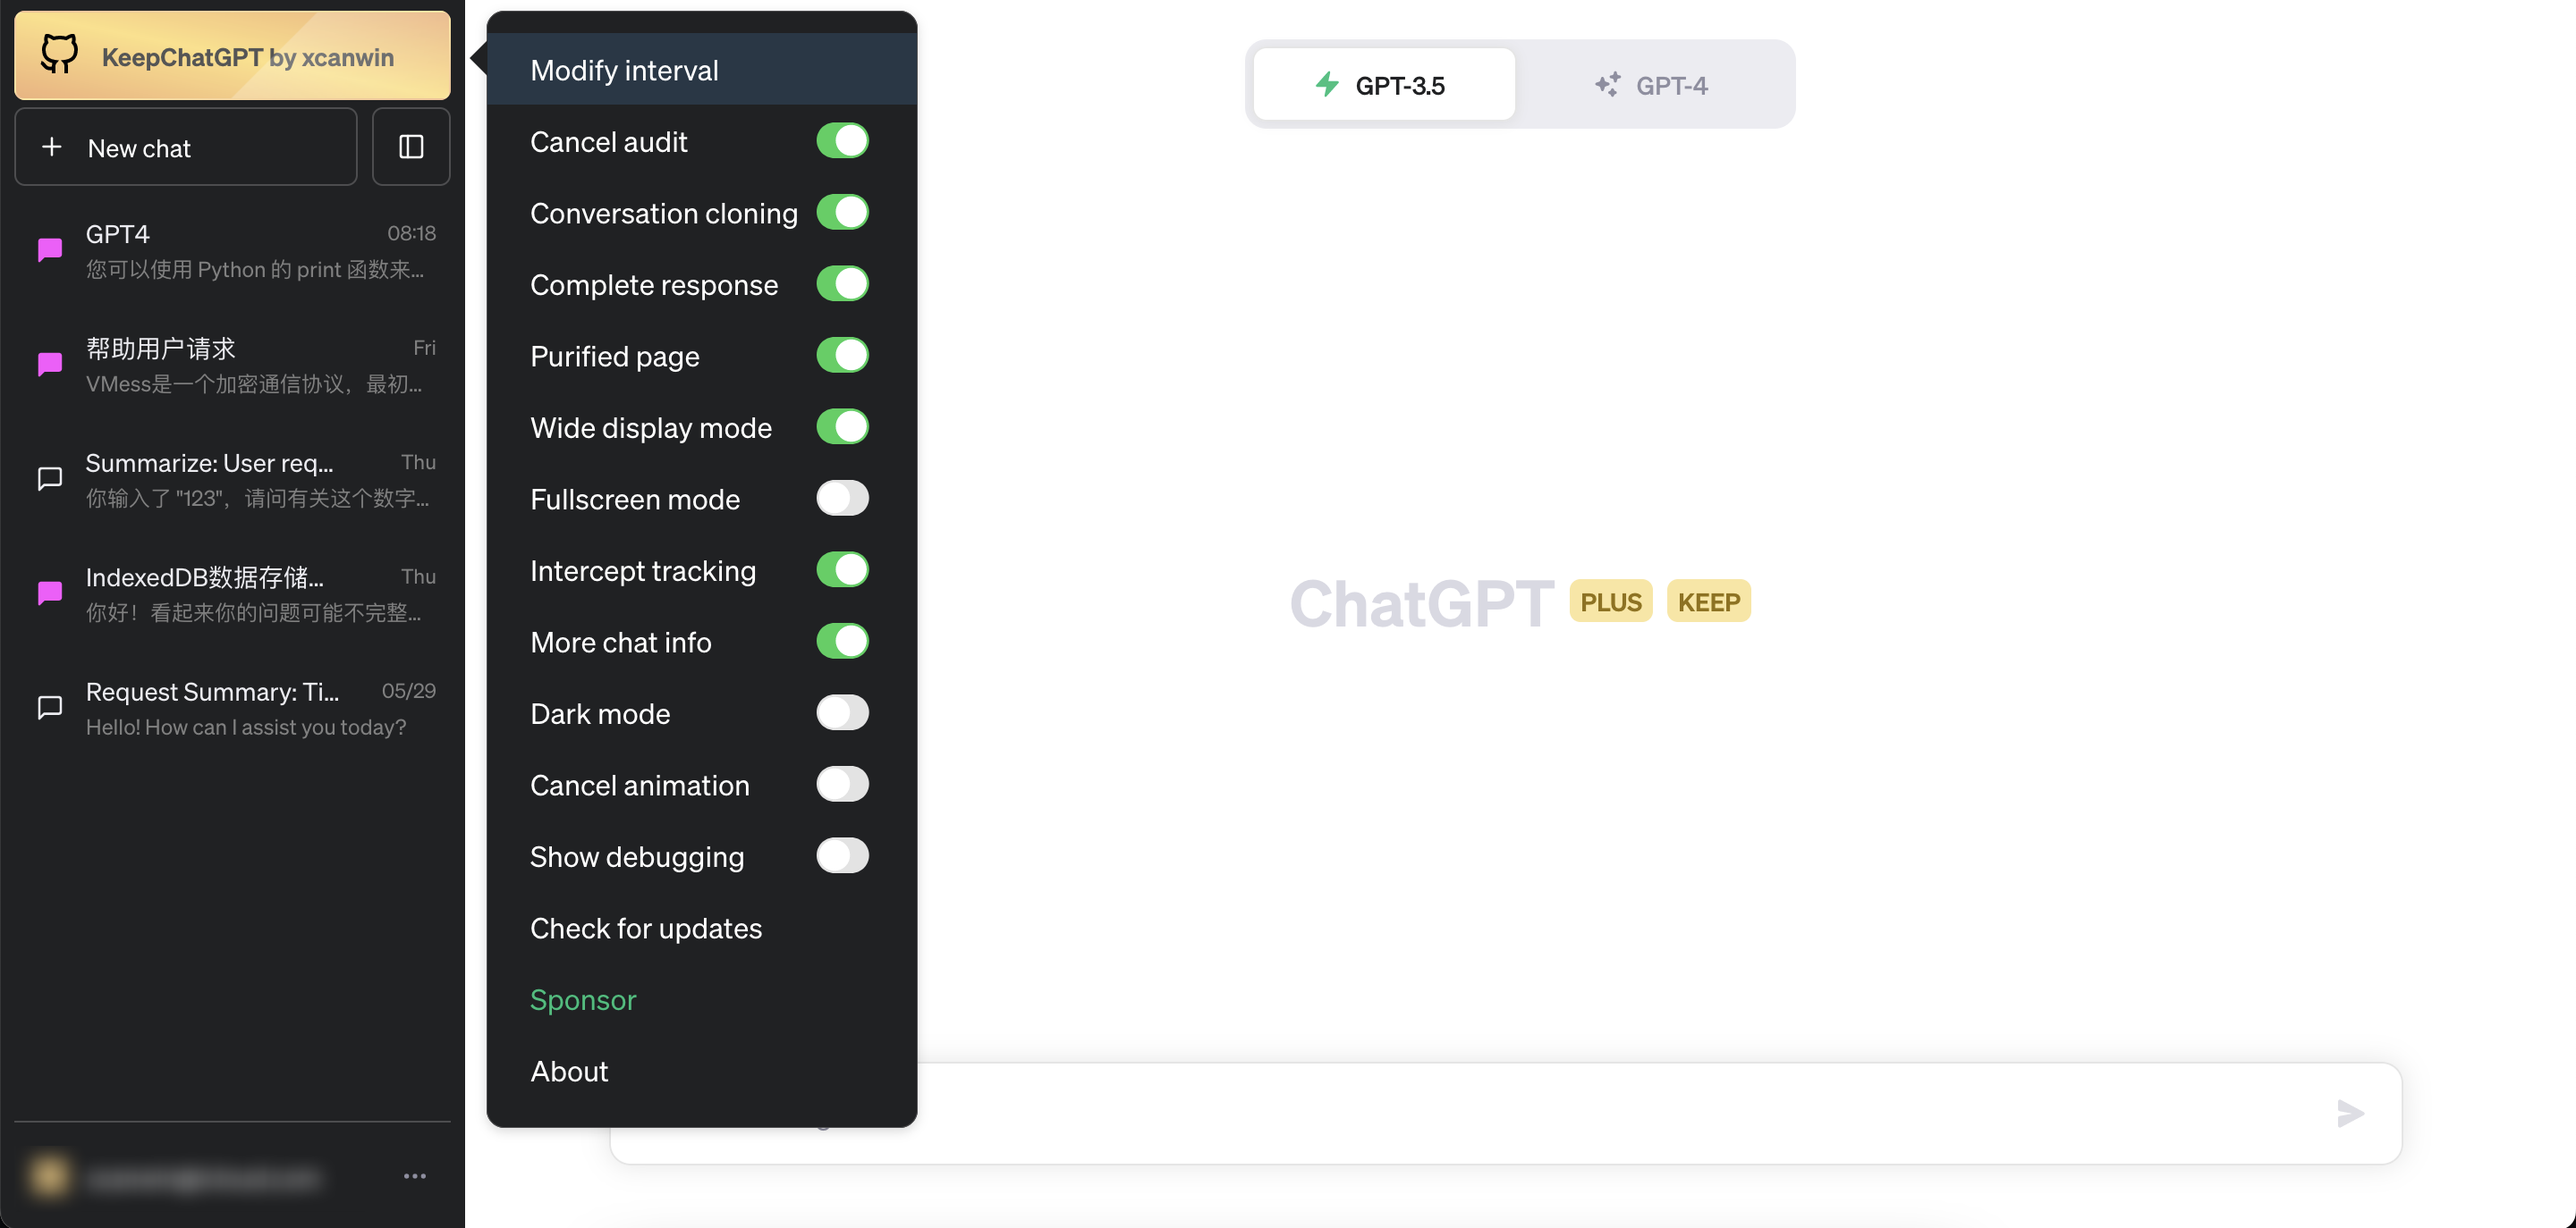
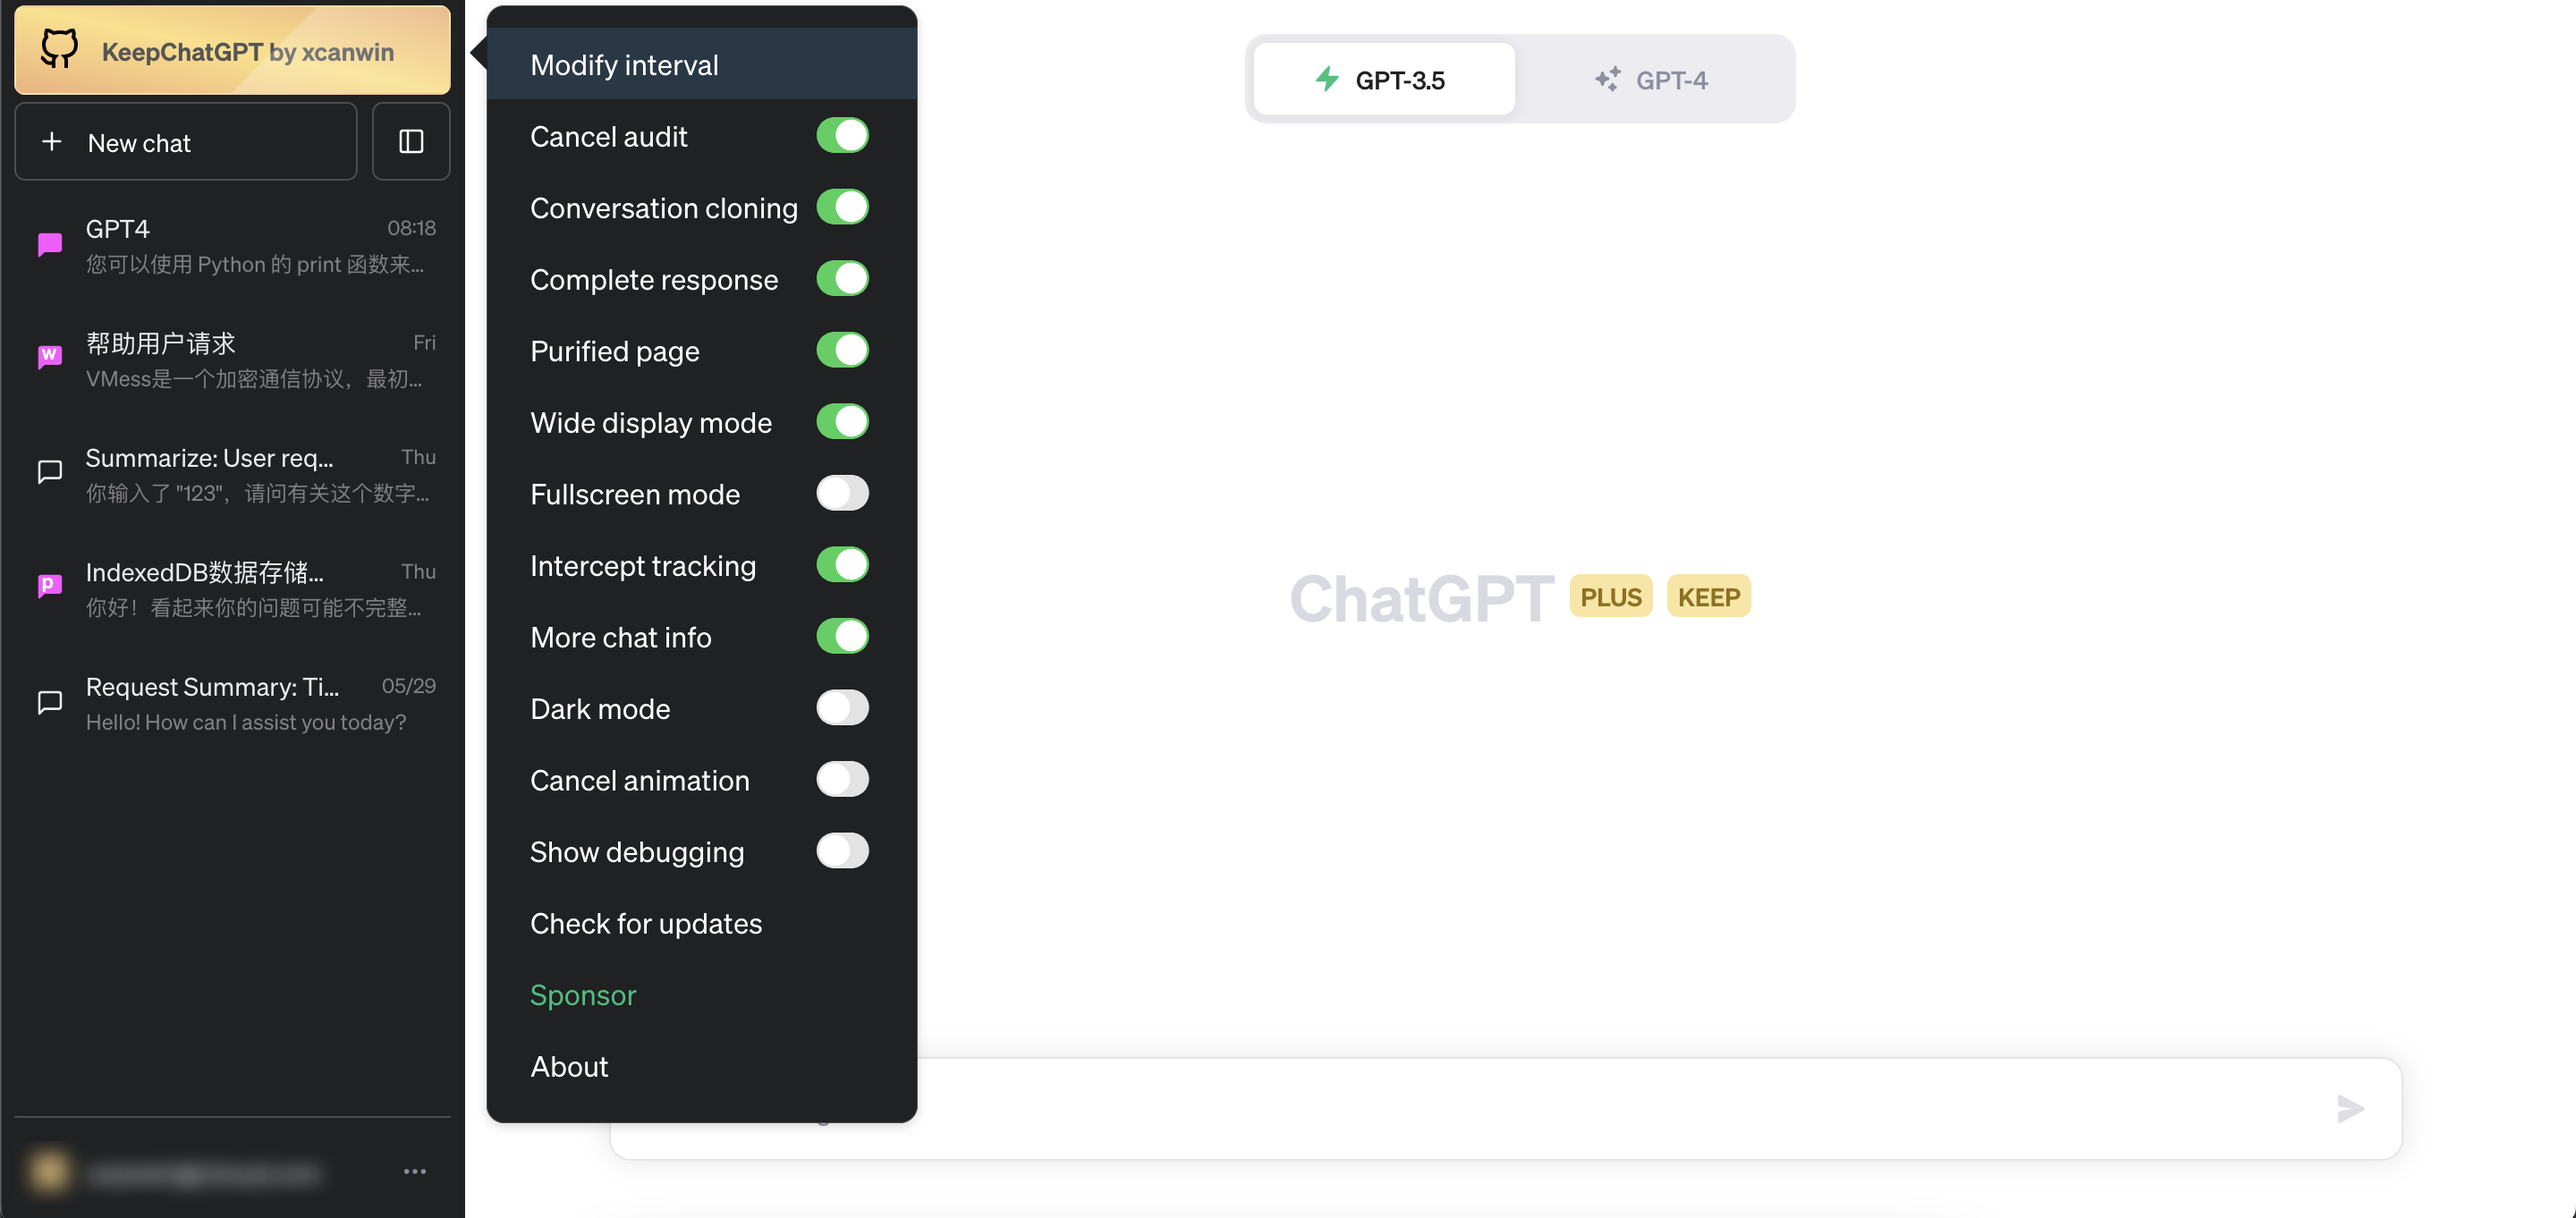
更新readme和展示图

diff --git a/README.md b/README.md
@@ -258,7 +258,8 @@
 
 1. 顾名思义，指随着大家每天都用chatgpt聊天学习，大家的技术和能力每天都在进步，提示词越来越丰富，答案越来越满意，聊天记录开始不舍得删除。
 2. 随着新建的聊天项目越来越多，用户也难以区分侧边栏的聊天项目。
-3. 勾选```日新月异```以后，侧边栏会出现```最后一条消息```、```日期```、```星期```、```GPT4模型高亮```等，帮助用户快速定位历史的优质的聊天项目。
+3. 勾选```日新月异```以后，侧边栏会出现```最后一条消息```、```日期```、```星期```、```模型高亮```等，帮助用户快速定位历史的优质的聊天项目。
+4. 关于```模型高亮```，```黑色```代表```GPT3.5```，```紫色```代表```GPT4```，```只有紫色```代表```默认的GPT4```模型，```m```代表```Mobile```模型，```w```代表```Web Browsing```模型，```p```代表```Plugins```模型。
 
 | 不勾选日新月异 | 勾选日新月异 |
 | --- | --- |
